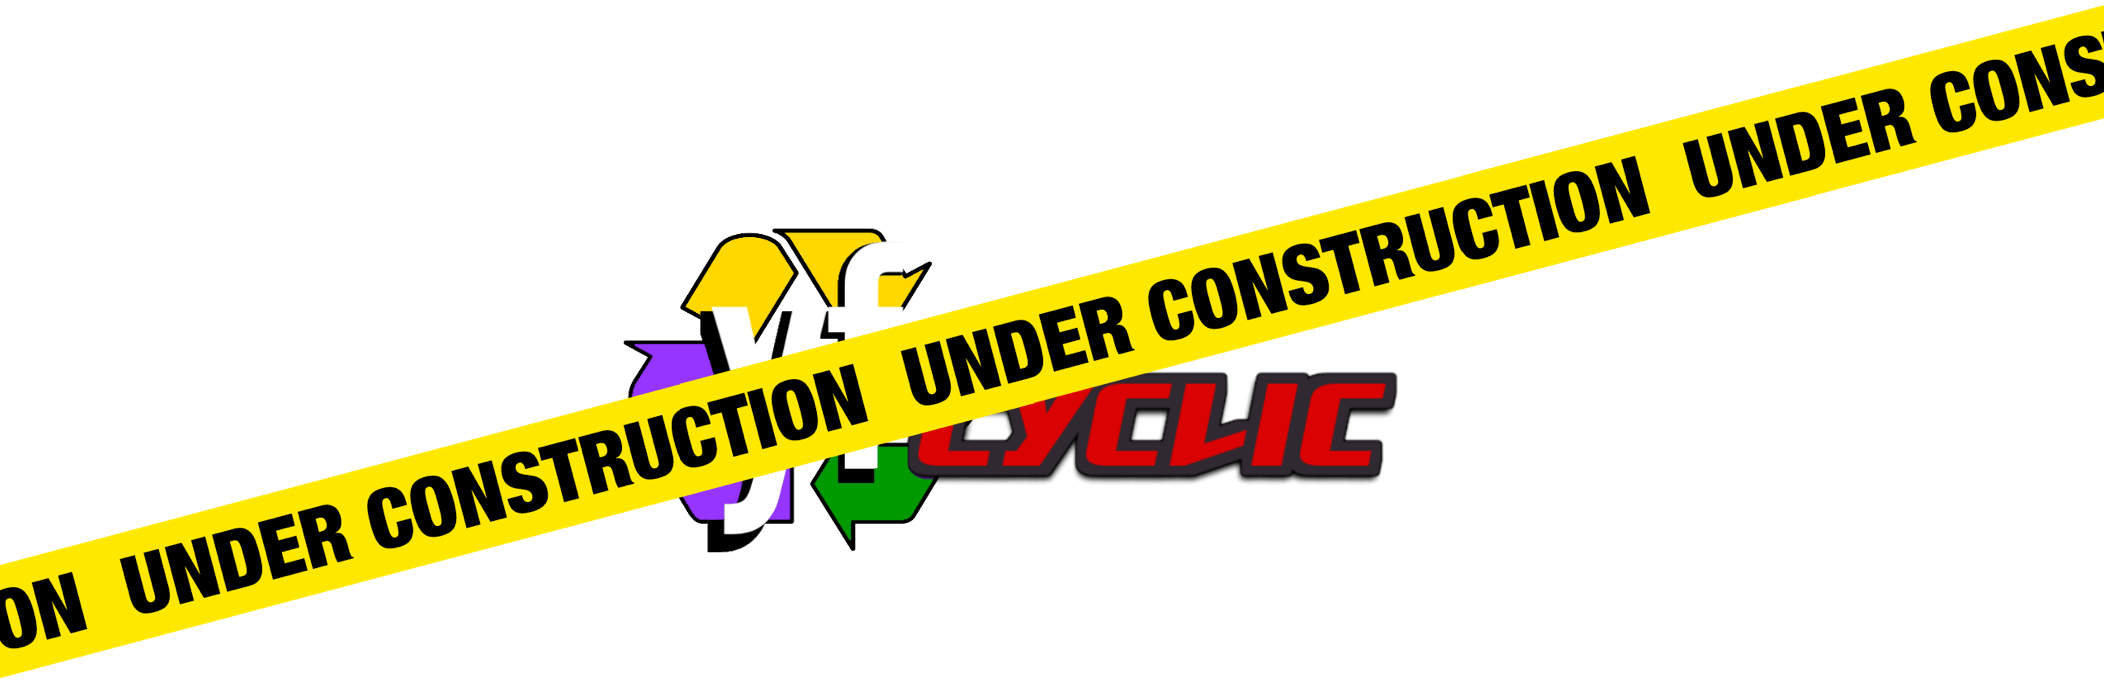
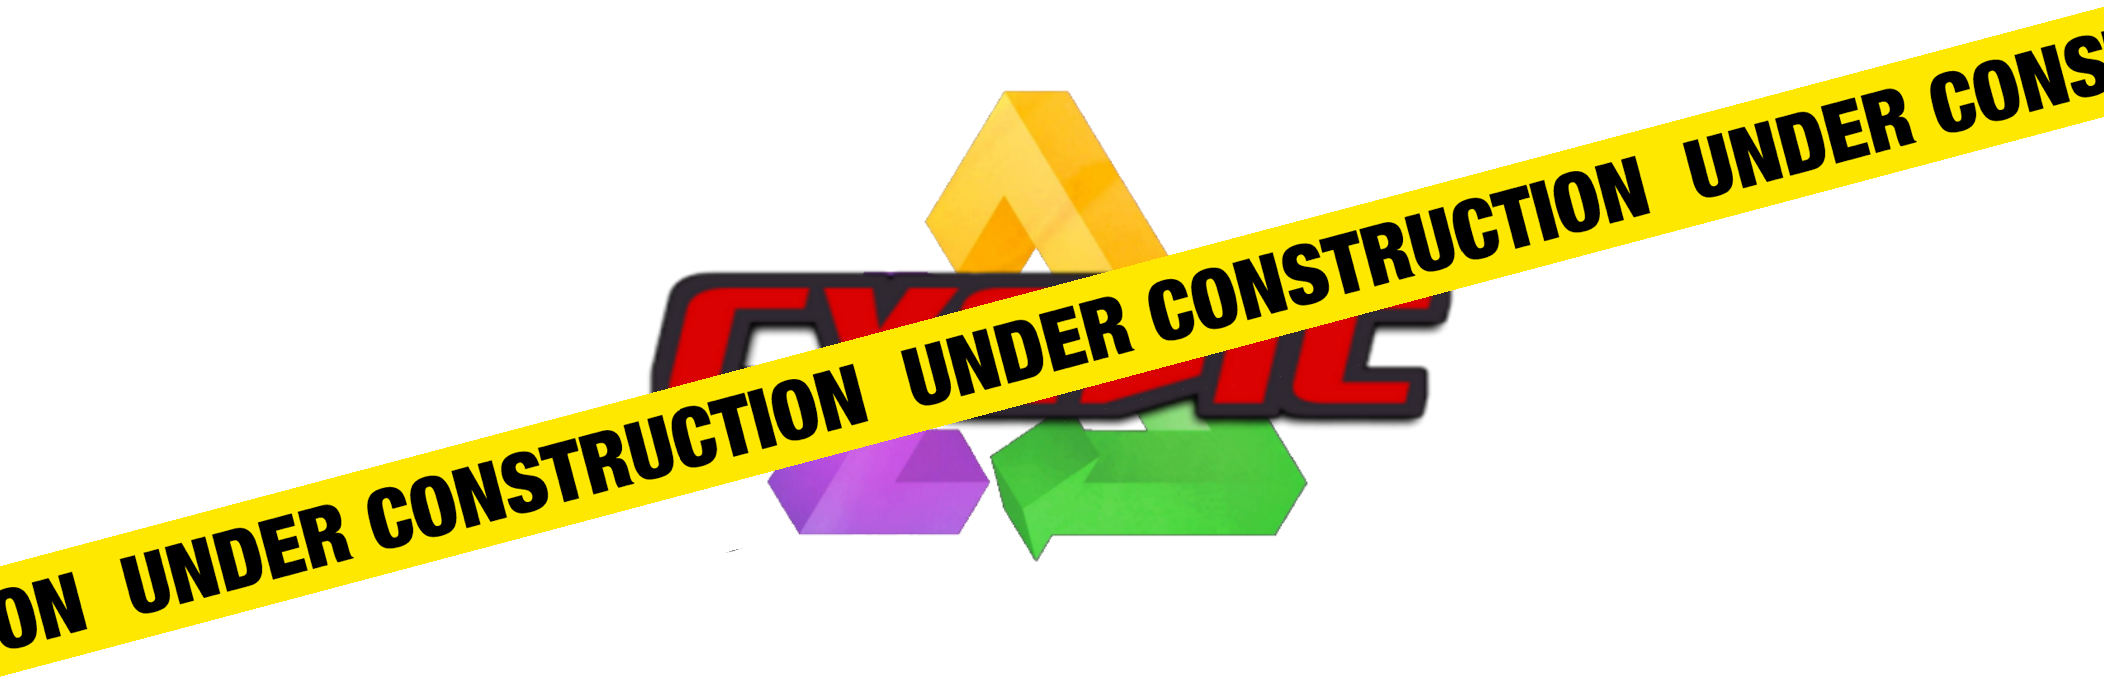
More rebranding

diff --git a/vaults.html b/vaults.html
@@ -1,14 +1,14 @@
 <!DOCTYPE HTML>
-<!--yfcyclic vaults under construction/future coming soon page-->
-<!--v1.0-->
+<!--cyclic vaults under construction/future coming soon page-->
+<!--v1.1-->
 <html>
 	<head>
 		<meta charset="utf-8">
 		<meta name="viewport" content="width=device-width, initial-scale=1.0, maximum-scale=1.0, user-scalable=0" />
-		<meta name="title" content="yfCyclic Finance">
+		<meta name="title" content="Cyclic Finance Vaults">
 		<meta name="description" content="Providing balanced DeFi for everyone.">
 		<link rel="shortcut icon" href="images/yfcyclicvault.png">
-		<title>yfCyclic Vaults</title>
+		<title>Cyclic Vaults</title>
 		<link rel="stylesheet" href="css/vaultsMain.css" />
 	</head>
 	<body>
@@ -18,7 +18,7 @@
 				<canvas id="c"></canvas>
 				<!-- header/main-countdown -->
 				<header id="header">
-					<h1>yfCyclic vaults are currently under construction. Please pay attention to our social media for updates!</h1>
+					<h1>Cyclic vaults are currently under construction. Please pay attention to our social media for updates!</h1>
 					<div class="container">
 					  <h1 id="headline">Vaults go live in:</h1>
 					  <div id="countdown">

diff --git a/index.html b/index.html
@@ -8,7 +8,7 @@
     <meta name="viewport" content="width=device-width, initial-scale=1.0, maximum-scale=1.0, user-scalable=0" />
     <meta name="title" content="Cyclic Finance">
     <meta name="description" content="Providing balanced DeFi for everyone.">
-    <link rel="shortcut icon" href="images/CyclicEmblem.png">
+    <link rel="shortcut icon" href="images/cyclicEmblem.png">
     <title>Cyclic</title>
     <link href="https://fonts.googleapis.com/css?family=Open+Sans:300,300i,400,400i,600,600i,700" rel="stylesheet">
     <!--custom stylesheets -->
